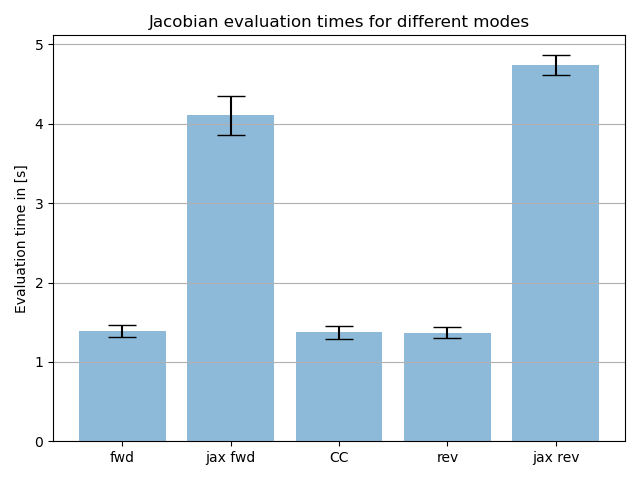
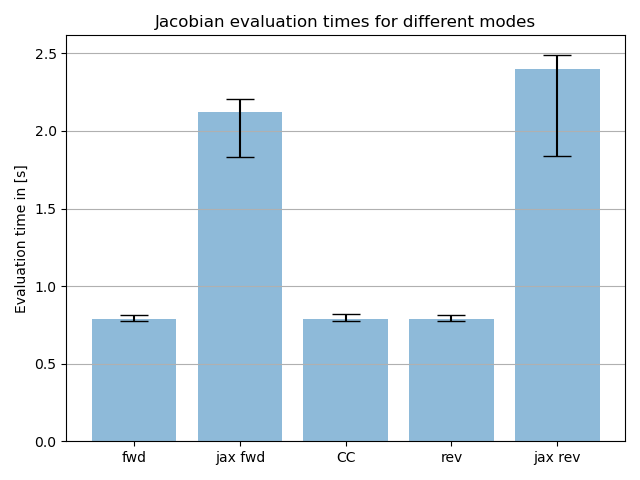
New and better performance measurements.

diff --git a/src/graphax/performance_measurements.py b/src/graphax/performance_measurements.py
@@ -25,16 +25,20 @@ def measure_execution_time(f: Callable,
     """
     measurements = []
     argnums = list(range(len(args)))
-    def loop_fn(carry, x):
-        xs = [arg*0.01*carry for arg in args]
-        grad = jacve(f, order=order, argnums=argnums)(*xs)
-        jax.block_until_ready(grad)
-        carry *= 1.01
-        return carry, grad
     
-    for _ in range(samplesize):
+    grad_f = ()
+    grad_f = jax.jit(jacve(f, order=order, argnums=argnums))
+    # def loop_fn(carry, x):
+    #     xs = [arg*0.01*carry for arg in args]
+    #     grad = jacve(f, order=order, argnums=argnums)(*xs)
+    #     jax.block_until_ready(grad)
+    #     carry *= 1.01
+    #     return carry, grad
+    
+    for i in range(samplesize):
+        xs = [arg*1e-5*i for arg in args]
         st = timer()
-        out = lax.scan(loop_fn, 0.1, (), length=loop_duration)
+        out = grad_f(*xs)
         jax.block_until_ready(out)
         dt = timer() - st
         measurements.append(dt)
@@ -54,30 +58,35 @@ def measure_execution_time_with_jax(f: Callable,
     """
     fwd_measurements, rev_measurements = [], []
     argnums = list(range(len(args)))
-    def loop_fn(carry, x):
-        xs = [arg*0.01*carry for arg in args]
-        grad = jax.jacfwd(f, argnums=argnums)(*xs)
-        jax.block_until_ready(grad)
-        carry *= 1.01
-        return carry, grad
     
-    for _ in range(samplesize):
+    fwd_f = jax.jit(jax.jacfwd(f, argnums=argnums))
+    rev_f = jax.jit(jax.jacfwd(f, argnums=argnums))
+    # def loop_fn(carry, x):
+    #     xs = [arg*0.01*carry for arg in args]
+    #     grad = jax.jacfwd(f, argnums=argnums)(*xs)
+    #     jax.block_until_ready(grad)
+    #     carry *= 1.01
+    #     return carry, grad
+    
+    for i in range(samplesize):
+        xs = [arg*1e-5*i for arg in args]
         st = timer()
-        out = lax.scan(loop_fn, 0.1, (), length=loop_duration)
+        out = fwd_f(*xs)
         jax.block_until_ready(out)
         dt = timer() - st
         fwd_measurements.append(dt)
         
-    def loop_fn(carry, x):
-        xs = [arg*0.01*carry for arg in args]
-        grad = jax.jacrev(f, argnums=argnums)(*xs)
-        jax.block_until_ready(grad)
-        carry *= 1.01
-        return carry, grad
+    # def loop_fn(carry, x):
+    #     xs = [arg*0.01*carry for arg in args]
+    #     grad = jax.jacrev(f, argnums=argnums)(*xs)
+    #     jax.block_until_ready(grad)
+    #     carry *= 1.01
+    #     return carry, grad
     
-    for _ in range(samplesize):
+    for i in range(samplesize):
+        xs = [arg*1e-5*i for arg in args]
         st = timer()
-        out = lax.scan(loop_fn, 0.1, (), length=loop_duration)
+        out = rev_f(*xs)
         jax.block_until_ready(out)
         dt = timer() - st
         rev_measurements.append(dt)

diff --git a/tests/interpreter/to_jaxpr_test.py b/tests/interpreter/to_jaxpr_test.py
@@ -14,10 +14,10 @@ def f(x, y):
 xkey, ykey = jrand.split(key, 2)
 x = jrand.normal(xkey, (2, 3))
 y = jrand.normal(ykey, (3,))
-jaxpr = jax.make_jaxpr(jacve(f, order=[1], argnums=(0, 1)))(x, y)
+jaxpr = jax.make_jaxpr(jacve(f, order="rev", argnums=(0, 1)))(x, y)
 print(jaxpr)
 
-deriv_fn = jax.jit(jacve(f, [1], argnums=(0, 1)))
+deriv_fn = jax.jit(jacve(f, order="rev", argnums=(0, 1)))
 veres = deriv_fn(x, y)
 
 revres = jax.jacrev(f, argnums=(0, 1))(x, y)
@@ -39,8 +39,8 @@ print(len(jax.make_jaxpr(jacve(g, order="rev", argnums=argnums))(*xs).eqns))
 revres = jax_rev_g(*xs)
 veres = jac_rev_g(*xs)
 
-for rev, ve in zip(revres, veres):
-    print(rev, ve)
+# for rev, ve in zip(revres, veres):
+#     print(rev, ve)
 
 print(tree_allclose(veres, revres))
 
@@ -48,19 +48,21 @@ print(tree_allclose(veres, revres))
 def f(x, y):
     z = x * y
     w = z**3
-    return z, w + z, 5*w
+    return w + z, 5*w
 
-x = 1. # jnp.ones((50, 50))
-y = 2. # *jnp.ones((50, 50))
+x = jnp.ones(()) # jnp.ones((50, 50))
+y = jnp.ones(()) # *jnp.ones((50, 50))
 jaxpr = jax.make_jaxpr(f)(x, y)
 print(jaxpr)
 
-jacs = jax.jit(jacve(f, order=[2, 1], argnums=(0, 1)))
+jacs = jax.jit(jacve(f, order="rev", argnums=(0, 1)))
+jaxpr = jax.make_jaxpr(jacve(f, order="rev", argnums=(0, 1)))(x, y)
+print(jaxpr)
 veres = jacs(x, y)
 print(veres)
 
-jacfwd_f = jax.jit(jacve(f, [1, 2]))
-jacrev_f = jax.jit(jacve(f, [2, 1]))
+jacfwd_f = jax.jit(jacve(f, order="fwd", argnums=(0, 1)))
+jacrev_f = jax.jit(jacve(f, order="rev", argnums=(0, 1)))
 
 
 jac_f = jax.jit(jax.jacfwd(f, argnums=(0, 1)))
@@ -169,22 +171,4 @@ WV = jrand.normal(key,(10, 10))
 
 print(jax.make_jaxpr(softmax_attention)(x, WQ, WK, WV))
 print(jax.make_jaxpr(jacve(softmax_attention, order="fwd"))(x, WQ, WK, WV))
-
-# def f(x, y):
-#     z = x * y
-#     return 3.0*z
-
-# x = jnp.ones((2, 3))
-# y = jnp.ones((3,))
-# jaxpr = jax.make_jaxpr(jacve(f, "fwd"))(x, y)
-# print(jaxpr)
-
-# jacs = jacve(f, "fwd")(x, y)
-
-# jax_jacs = jax.jacrev(f, argnums=(0, 1, 2, 3))(x, y)
-
-# print(jnp.allclose(veres, revres))
-
-# print("ve",jacs[0])
-# print("rev", jax_jacs[0])
 

diff --git a/src/graphax/interpreter/to_jaxpr.py b/src/graphax/interpreter/to_jaxpr.py
@@ -355,7 +355,7 @@ def jacve(fun, order, argnums=(0,)):
     return wrapped
 
 
-def vertex_elimination_jaxpr(jaxpr, order, consts, *args, argnums=(0,)):    
+def vertex_elimination_jaxpr(jaxpr, order, consts, *args, argnums=(0,), count_muls=True):    
     env = {}
     graph = defaultdict(lambda: defaultdict()) # Input connectivity
     transpose_graph = defaultdict(lambda: defaultdict()) # Output connectivity
@@ -431,6 +431,8 @@ def vertex_elimination_jaxpr(jaxpr, order, consts, *args, argnums=(0,)):
             raise ValueError(f"{order} is not a valid order identifier!")
 
     # Eliminate the vertices
+    mul_counter = 0
+    add_counter = 0
     for vertex in order:
         eqn = jaxpr.eqns[vertex-1]
         for out_edge in graph[eqn.outvars[0]].keys():
@@ -440,12 +442,14 @@ def vertex_elimination_jaxpr(jaxpr, order, consts, *args, argnums=(0,)):
                 # print(in_edge, eqn.outvars[0], out_edge)
                 # print("in shape", post_val, pre_val)
                 edge_outval = post_val * pre_val
+                mul_counter += 1
                 # print("mul shape", edge_outval)
 
                 if graph.get(in_edge).get(out_edge) is not None:
                     _edge = transpose_graph[out_edge][in_edge]
                     # print("add shape", _edge)
                     edge_outval += _edge
+                    add_counter += 1
                 graph[in_edge][out_edge] = edge_outval
                 transpose_graph[out_edge][in_edge] = edge_outval
                 
@@ -459,7 +463,10 @@ def vertex_elimination_jaxpr(jaxpr, order, consts, *args, argnums=(0,)):
         # Cleanup eliminated vertices   
         del graph[eqn.outvars[0]]
         if vertex not in vo_vertices:
-            del transpose_graph[eqn.outvars[0]]    
+            del transpose_graph[eqn.outvars[0]]   
+            
+    if count_muls: 
+        print(f"# multiplications: {mul_counter}, # additions: {add_counter}")
 
     # Collect outputs 
     jac_vals = [graph[invar][outvar].materialize_actual_shape(iota) 

diff --git a/tests/interpreter/performance_measurements.py b/tests/interpreter/performance_measurements.py
@@ -117,16 +117,15 @@ def measure_RobotArm():
     print("cc", ops)
     
     samplesize = 100
-    duration = 100
         
-    shape = (20,20)
+    shape = (80, 80)
     
     xs = [jnp.ones(shape)]*6
-    gx.plot_performance(position_angles_6DOF, xs, order, "./6DOF_Robot_Arm.png", samplesize=samplesize, loop_duration=duration)
+    gx.plot_performance(position_angles_6DOF, xs, order, "./6DOF_Robot_Arm.png", samplesize=samplesize)
     
-    shapes = [(), (3, 3), (6, 6), (10, 10), (15, 15), (20, 20), (30, 30)]
-    args = [[jnp.ones(shape)]*6 for shape in shapes]
-    gx.plot_performance_over_size(position_angles_6DOF, args, order, "./6DOF_Robot_Arm_sizes.png", samplesize=samplesize, loop_duration=duration)
+    # shapes = [(), (3, 3), (6, 6), (10, 10), (15, 15), (20, 20), (30, 30)]
+    # args = [[jnp.ones(shape)]*6 for shape in shapes]
+    # gx.plot_performance_over_size(position_angles_6DOF, args, order, "./6DOF_Robot_Arm_sizes.png", samplesize=samplesize)
     
     
 from graphax.examples.simple import make_g, g
@@ -141,19 +140,18 @@ def measure_G():
     print("reverse", ops)
     _, ops = gx.cross_country(order, edges)
     print("cc", ops)
-    
         
-    samplesize = 100
-    duration = 2
-    xs = [jnp.ones((20,20))]*15
+    samplesize = 10000
+    xs = [jnp.ones(())]*15
+    print(len(jax.make_jaxpr(gx.jacve(g, order="fwd", argnums=list(range(15))))(*xs).eqns))
     print(len(jax.make_jaxpr(gx.jacve(g, order="rev", argnums=list(range(15))))(*xs).eqns))
     print(len(jax.make_jaxpr(gx.jacve(g, order=order, argnums=list(range(15))))(*xs).eqns))
-    gx.plot_performance(g, xs, order, "./g.png", samplesize=samplesize, loop_duration=duration)
+    gx.plot_performance(g, xs, order, "./g.png", samplesize=samplesize)
     
 
 # simple()
 # measure_Helmholtz()
 # Perceptron()
-# measure_RobotArm()
-measure_G()
+measure_RobotArm()
+# measure_G()
 
